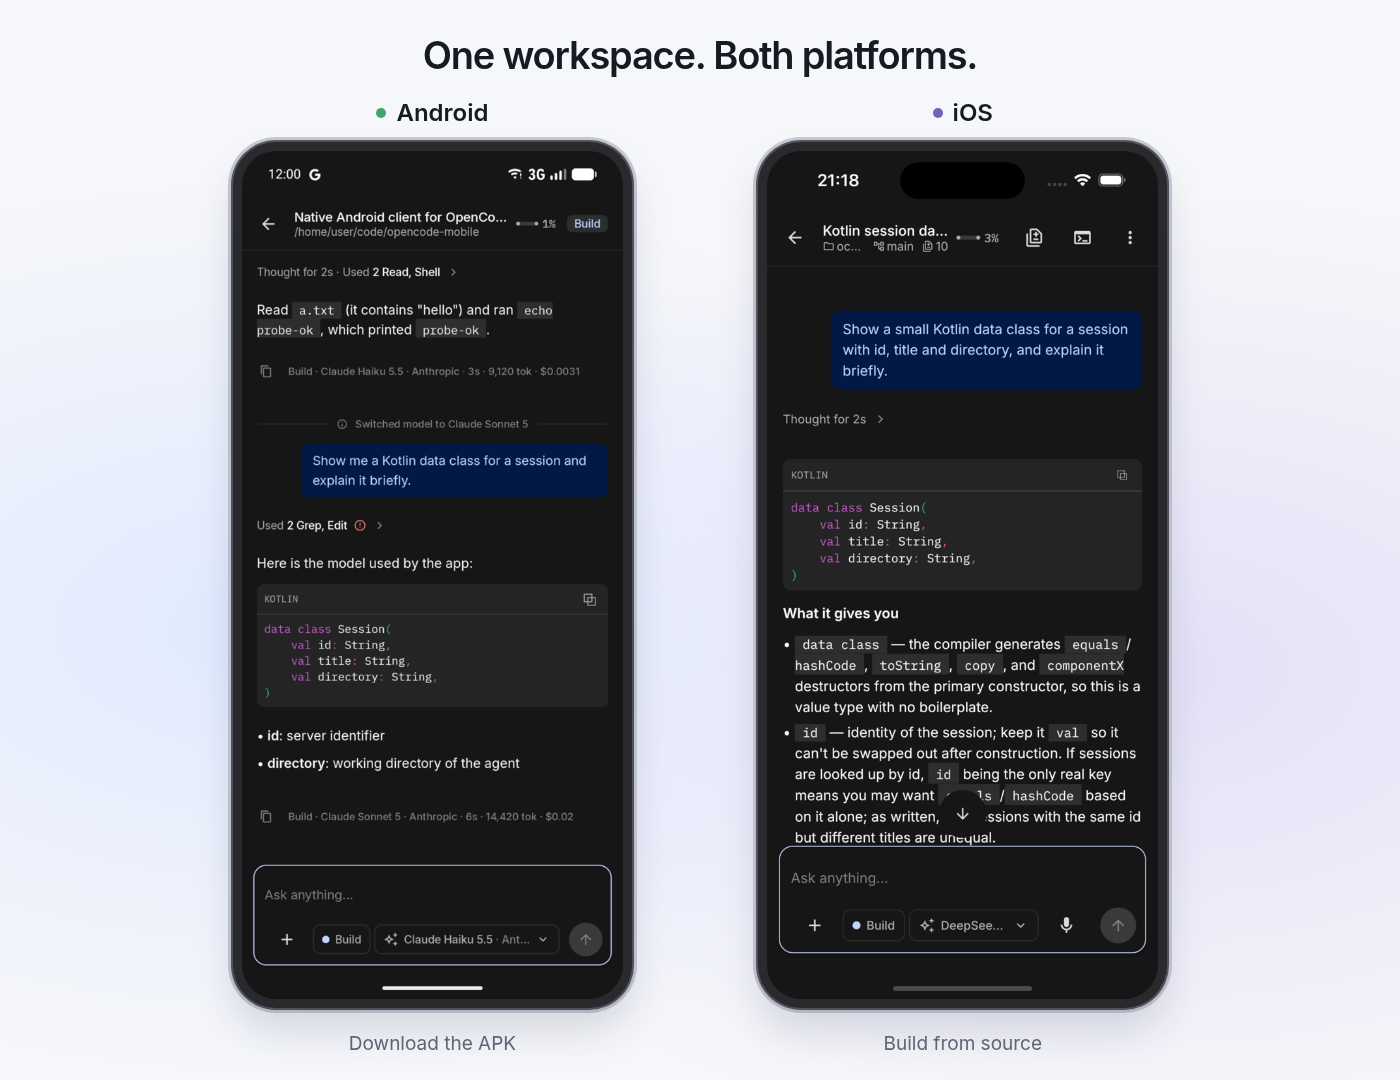
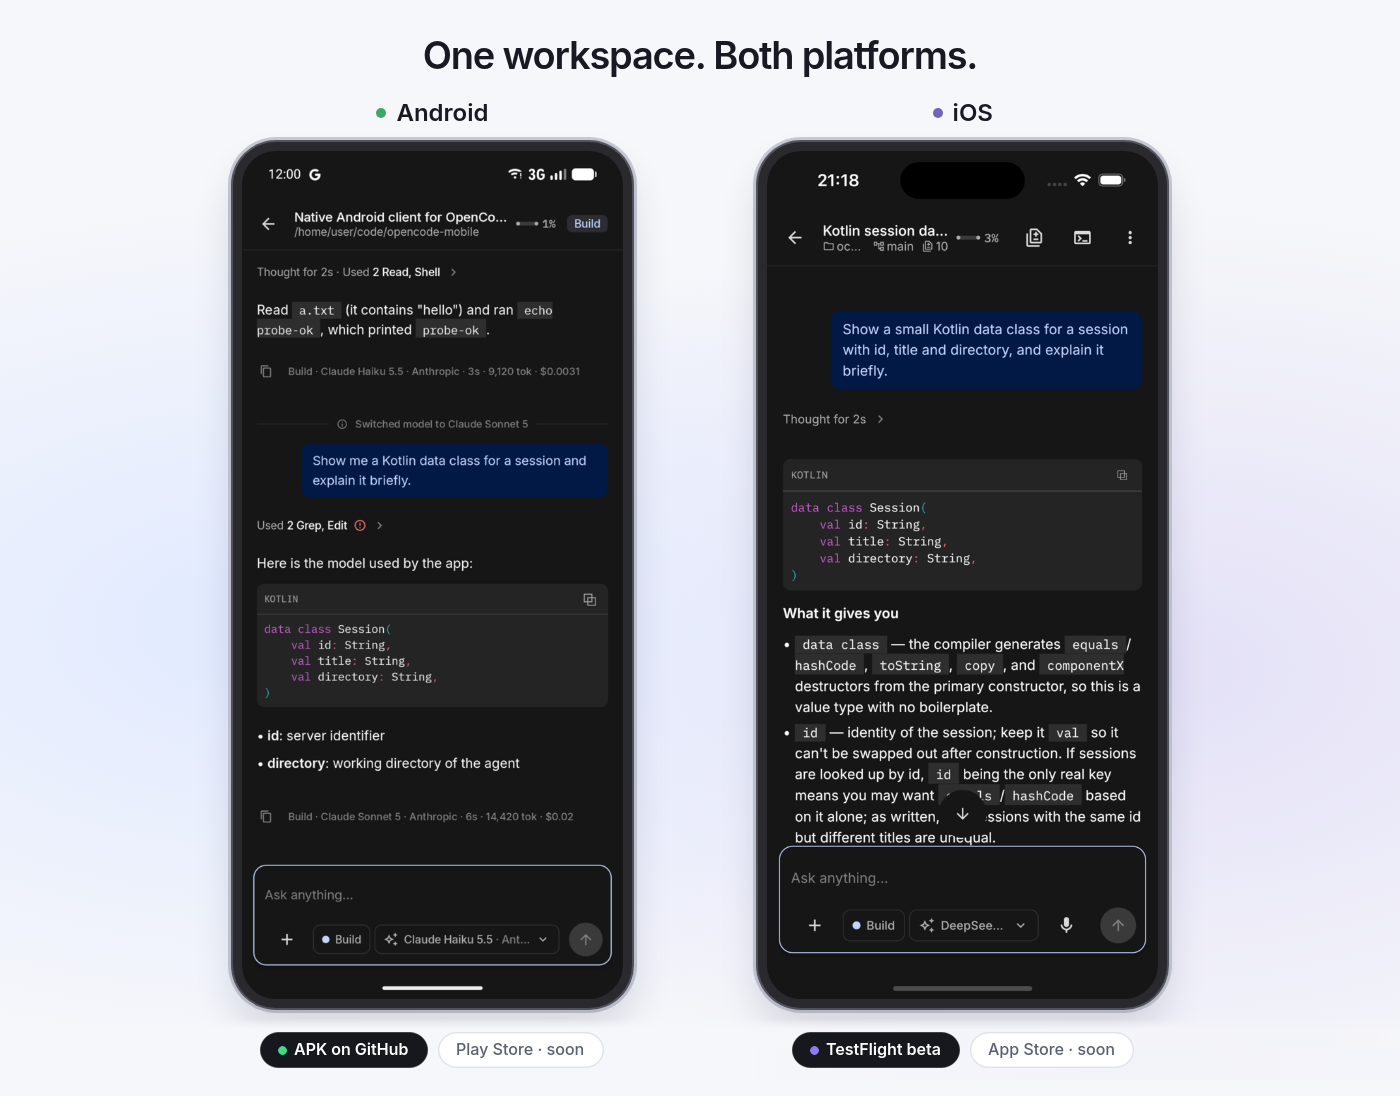
docs: Link the iOS TestFlight beta (#236)
The iOS app is now a public TestFlight beta, approved by Apple beta
review.

- README: TestFlight link in the badges, top links, tagline and Get the
app table; building from source stays documented.
- Opening image: the captions under the phones become pills (APK on
GitHub · Play Store soon, TestFlight beta · App Store soon); chat
captures unchanged.

diff --git a/README.md b/README.md
@@ -13,7 +13,7 @@
 <p align="center">
   <a href="https://github.com/beppe2880/opencode-mobile/releases/latest"><img src="https://img.shields.io/github/v/release/beppe2880/opencode-mobile?style=flat-square&amp;color=5865f2" alt="Latest release"></a>
   <a href="#get-the-app"><img src="https://img.shields.io/badge/Android-8.0%2B-3ddc84?style=flat-square&amp;logo=android&amp;logoColor=white" alt="Android 8.0 or newer"></a>
-  <a href="#get-the-app"><img src="https://img.shields.io/badge/iOS-15%2B-111111?style=flat-square&amp;logo=apple&amp;logoColor=white" alt="iOS 15 or newer; build from source"></a>
+  <a href="#get-the-app"><img src="https://img.shields.io/badge/iOS-15%2B-111111?style=flat-square&amp;logo=apple&amp;logoColor=white" alt="iOS 15 or newer; TestFlight beta"></a>
   <a href="https://github.com/beppe2880/opencode-mobile/actions/workflows/ci.yml"><img src="https://github.com/beppe2880/opencode-mobile/actions/workflows/ci.yml/badge.svg" alt="CI"></a>
   <a href="LICENSE"><img src="https://img.shields.io/badge/License-MIT-blue?style=flat-square" alt="MIT license"></a>
 </p>
@@ -21,17 +21,17 @@
 <p align="center">
   <a href="https://github.com/beppe2880/opencode-mobile/releases/latest"><strong>Download Android APK</strong></a>
   &nbsp; · &nbsp;
-  <a href="#ios"><strong>Build for iOS</strong></a>
+  <a href="https://testflight.apple.com/join/Z7wVBAn3"><strong>Join the iOS beta on TestFlight</strong></a>
   &nbsp; · &nbsp;
   <a href="#connect-in-two-steps"><strong>Quick start</strong></a>
 </p>
 
 <p align="center">
-  <img src="docs/media/android-and-ios.png" width="1000" alt="OpenCode Mobile running on Android and iPhone, with dark-theme chat and syntax-highlighted Kotlin code on both platforms">
+  <img src="docs/media/android-and-ios.png" width="1000" alt="OpenCode Mobile running on Android and iPhone, with dark-theme chat and syntax-highlighted Kotlin code on both platforms; Android is available as an APK on GitHub and iOS as a TestFlight beta, with the Play Store and App Store coming soon">
 </p>
 
 <p align="center">
-  Android APK available now · iOS available from source<br>
+  Android APK available now · iOS beta on TestFlight<br>
   <sub>Independent community project. Not affiliated with or endorsed by the OpenCode team.</sub>
 </p>
 
@@ -131,8 +131,8 @@ sessions. On iOS, live updates resume when you return to the app.
 | Android | iPhone / iPad |
 | --- | --- |
 | **Android 8.0+** | **iOS 15+** |
-| [Download the latest APK](https://github.com/beppe2880/opencode-mobile/releases/latest) | [Build the iOS app from source](#ios) |
-| Open the APK on your phone and allow installation from your browser or file manager when prompted. Release assets include SHA-256 checksums. | Requires a Mac with Xcode. The iOS app is not currently distributed through the App Store or TestFlight. |
+| [Download the latest APK](https://github.com/beppe2880/opencode-mobile/releases/latest) | [Join the beta on TestFlight](https://testflight.apple.com/join/Z7wVBAn3) |
+| Open the APK on your phone and allow installation from your browser or file manager when prompted. Release assets include SHA-256 checksums. | Open the link on your iPhone or iPad, install Apple's TestFlight app, then install **OpenCodeCommunity**. Beta places are limited; you can also [build the app from source](#ios). |
 
 You also need an **[OpenCode 2.x](https://opencode.ai) server** that your phone can reach,
 on the same Wi-Fi or through a VPN such as WireGuard or Tailscale.

diff --git a/docs/media/README.md b/docs/media/README.md
@@ -7,6 +7,7 @@
   `docs/screenshots/ios-chat.png`, captured on an iPhone 15 simulator running
   iOS 17.2 from the v0.11.0 source. The iOS conversation was created in a
   disposable session on a scratch server. The images show different app versions.
-- The device frames, background and platform labels in the opening image are
-  presentation elements; the chat contents are unaltered.
+- The device frames, background, platform labels and the availability pills under
+  the phones (APK on GitHub, TestFlight beta, stores coming soon) in the opening image
+  are presentation elements; the chat contents are unaltered.
 - The existing GIFs demonstrate Android flows. They are not iOS recordings.
